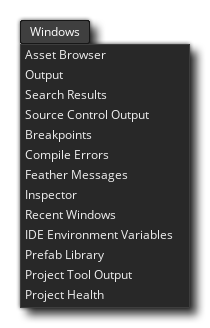
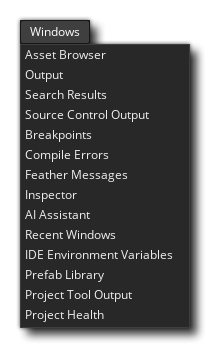
docs(feature): Initial documentation for the AI plugin

Changed region(s): [[0.0857, 0.0305, 0.9429, 0.9451]]

diff --git a/Manual/contents/IDE_Tools/AI_Assistant.htm b/Manual/contents/IDE_Tools/AI_Assistant.htm
@@ -1,0 +1,61 @@
+<?xml version="1.0" encoding="utf-8" ?>
+<!DOCTYPE html>
+<html xmlns="http://www.w3.org/1999/xhtml">
+<head>
+  <meta http-equiv="Content-Type" content="text/html; charset=utf-8" />
+  <title>AI Assistant</title>
+  <meta name="generator" content="Adobe RoboHelp 2022" />
+  <link rel="stylesheet" href="../assets/css/default.css" type="text/css" />
+  <script src="../assets/scripts/main_script.js" type="module"></script>
+  <meta name="rh-authors" content="Gurpreet S. Matharoo" />
+  <meta name="topic-comment" content="Page detailing the AI Assitant" />
+  <meta name="rh-index-keywords" content="AI Assitant" />
+  <meta name="search-keywords" content="AI Assitant" />
+</head>
+<body>
+  <!--<div class="body-scroll" style="top: 150px;">-->
+  <h1><span data-field="title" data-format="default">AI Assistant</span></h1>
+  <p>The <span data-keyref="AI_Assistant">AI Assistant</span> is a chatbot where you can converse with the AI, ask questions and request images.</p>
+  <p>When you open a project, you will see this window:</p>
+  <p><img class="center" src="../assets/Images/IDE Tools/AIAssis/AI_welcome.png" />Click &quot;<strong>Start New Chat</strong>&quot; to open the <span data-keyref="AI_Assistant">AI Assistant</span> and start a new chat. The &quot;<strong>Don&#39;t show again</strong>&quot; option is enabled by default which makes sure this window doesn&#39;t appear again (this modifies a <a href="../Setting_Up_And_Version_Information/IDE_Preferences/AI_Assistant_Preferences.htm">preference</a> which you can later enable to prompt this window to open the next time you open a project).</p>
+  <p>The <span data-keyref="AI_Assistant">AI Assistant</span> can also be opened from <a data-xref="{title}" href="../IDE_Navigation/Menus/The_Windows_Menu.htm">The Windows Menu</a> or the <img class="icon" src="../assets/Images/Icons/Icon_AI.png" /> button in the Quick Buttons menu of the IDE. The <span data-keyref="AI_Assistant">AI Assistant</span> window can be docked to any part of the IDE or used as a floating window.</p>
+  <h2>Home Screen</h2>
+  <p><img class="center" src="../assets/Images/IDE Tools/AIAssis/AI_start.png" />The home screen of the <span data-keyref="AI_Assistant">AI Assistant</span> window displays quick options to start chats about various GameMaker concepts.</p>
+  <p>The following buttons are given at the top:</p>
+  <ul class="colour">
+    <li><strong>Start New Chat</strong> <img class="icon" src="../assets/Images/Icons/Icon_AddArgument.png" />: Start a new chat</li>
+    <li><strong>Menu </strong><img class="icon" src="../assets/Images/Icons/Icon_AssetMenu.png" />: In the home screen, this contains two options: 
+      <ul>
+        <li><strong>Open chat history</strong>: This opens the chat history menu described below</li>
+        <li><strong>Start New Chat</strong>: Start a new chat</li>
+      </ul>
+    </li>
+  </ul>
+  <h2>Chat History</h2>
+  <p><img class="center" src="../assets/Images/IDE Tools/AIAssis/AI_home.png" />This menu displays a list of all the chats that were previously created. You can search through the chat titles and select multiple chats to <img class="icon" src="../assets/Images/Icons/Icon_DeleteChannel.png" /> delete them.</p>
+  <p>The chat list can be sorted by the <strong>Last Modified</strong> column in an ascending or descending order. The <img class="icon" src="../assets/Images/Icons/Icon_dots.png" /> button next to a chat lets you rename or delete the chat. The <img src="../assets/Images/Icons/Icon_next.png" /> button is used to open the chat.</p>
+  <h2>Chat</h2>
+  <p><img class="center" src="../assets/Images/IDE Tools/AIAssis/AI_chat.png" />The chat menu is where you can converse with the <span data-keyref="AI_Assistant">AI Assistant</span>.</p>
+  <p>The <img class="icon" src="../assets/Images/Icons/Icon_ExtensionMenu.png" /> menu at the top contains options to start a new chat, rename or delete the current chat, and open the home or chat history screens.</p>
+  <p>You can search through the chat. At the bottom of the window you can write a message to send to the <span data-keyref="AI_Assistant">AI Assistant</span>.</p>
+  <p class="note"><span data-conref="../assets/snippets/Tag_important.hts"> </span> When you send a message for the first time, you will be required to log in and the Opera log-in page will automatically open in your default browser.</p>
+  <p> </p>
+  <p> </p>
+  <p> </p>
+  <div class="footer">
+    <div class="buttons">
+      <div class="clear">
+        <div style="float:left">Back: <a href="../The_IDE/The_IDE.htm">The IDE</a></div>
+        <div style="float:right">Next: <a data-xref="{title}" href="../Setting_Up_And_Version_Information/IDE_Preferences.htm">IDE Preferences</a></div>
+      </div>
+    </div>
+    <h5><span data-keyref="Copyright Notice">© Copyright YoYo Games Ltd. 2025 All Rights Reserved</span></h5>
+  </div>
+  <!-- KEYWORDS
+AI Assistant
+-->
+  <!-- TAGS
+ai_assistant
+-->
+</body>
+</html>

diff --git a/Manual/contents/IDE_Navigation/Menus/The_Windows_Menu.htm b/Manual/contents/IDE_Navigation/Menus/The_Windows_Menu.htm
@@ -17,7 +17,8 @@
   <h1><span data-field="title" data-format="default">The Windows Menu</span></h1>
   <p><img alt="The Windows Menu" class="center" height="288" src="../../assets/Images/IDE_Input/Window_Menu.png" width="210" /></p>
   <p>This menu is for opening the general docked IDE windows. Since docks can be rearranged and the contents can be removed as stand-alone windows or even closed entirely, this window permits you to re-open them if you find that you need them for anything. The windows that can be opened from here are <a data-xref="{title}" href="../../Introduction/The_Asset_Browser.htm">The Asset Browser</a> window and all the different <a href="../../Introduction/The_Output_Window.htm">Output</a> windows (Output, Search, Source Control, Breakpoints and Compile/Syntax Errors). Note that Feather Messages is shown instead of Syntax Errors if you&#39;ve <a href="../../Setting_Up_And_Version_Information/IDE_Preferences/Feather_Settings.htm#enable_feather">enabled Feather</a>.</p>
-  <p>Next you can open <a data-xref="{title}" href="../../IDE_Tools/The_Inspector.htm">The Inspector</a> window. This window is used to inspect the properties of the currently selected IDE element, and these properties can then be edited as required. You can also open the AI Assistant.</p>
+  <p>Next you can open <a data-xref="{title}" href="../../IDE_Tools/The_Inspector.htm">The Inspector</a> window. This window is used to inspect the properties of the currently selected IDE element, and these properties can then be edited as required.</p>
+  <p>You can also open the <a data-xref="{title}" href="../../IDE_Tools/AI_Assistant.htm">AI Assistant</a> from this menu.</p>
   <p>Next you have the <a data-xref="{title}" href="../Recent_Windows.htm">Recent Windows</a> list, and there is also the option to open the <strong>Environment Variables</strong> window where you can see the different paths that the various environment variables used in the <a href="../../Setting_Up_And_Version_Information/IDE_Preferences.htm">Preferences</a> point to. These variables cannot be edited (neither their name nor their path/setting) but you can select and copy/paste any of them for use elsewhere.</p>
   <p><img alt="Environment Variables" class="center" src="../../assets/Images/IDE_Input/Environment_Variables.png" />You can also open the <a data-xref="{title}" href="../../IDE_Tools/Prefab_Library.htm">Prefab Library</a> from here.</p>
   <p>You also have an option to open the <strong>Project Tool Output</strong> window. This windows shows the output of the <a data-xref="{title}" href="../../IDE_Tools/Project_Tool.htm">Project Tool</a>.</p>

diff --git a/Manual/contents/Setting_Up_And_Version_Information/IDE_Preferences/AI_Assistant_Preferences.htm b/Manual/contents/Setting_Up_And_Version_Information/IDE_Preferences/AI_Assistant_Preferences.htm
@@ -1,0 +1,42 @@
+<?xml version="1.0" encoding="utf-8" ?>
+<!DOCTYPE html>
+<html xmlns="http://www.w3.org/1999/xhtml">
+<head>
+  <meta http-equiv="Content-Type" content="text/html; charset=utf-8" />
+  <meta name="generator" content="Adobe RoboHelp 2022" />
+  <title>AI Assistant Preferences</title>
+  <meta name="topic-status" content="Draft" />
+  <link rel="stylesheet" type="text/css" href="../../assets/css/default.css" />
+  <meta name="rh-authors" content="" />
+  <meta name="topic-comment" content="Page documenting the AI Assistant preferences" />
+  <meta name="template" content="../../assets/masterpages/Manual_Page.htt" />
+  <meta name="rh-index-keywords" content="Prefs - AI Assistant" />
+  <meta name="search-keywords" content="AI Assistant Preferences" />
+</head>
+<body>
+  <h1><span data-field="title" data-format="default">AI Assistant Preferences</span></h1>
+  <p><img class="center" src="../../assets/Images/Setup_And_Version/Preferences/AI_Assistant_Main.png" />This section contains preferences for the <a data-xref="{title}" href="../../IDE_Tools/AI_Assistant.htm">AI Assistant</a>:</p>
+  <ul class="colour">
+    <li><strong>Show the Welcome screen</strong>: Show the welcome screen for the <span data-keyref="AI_Assistant">AI Assistant</span> the next time a project is loaded.</li>
+    <li><strong>Default window location</strong>: The location in the IDE where the <span data-keyref="AI_Assistant">AI Assistant</span> appears.</li>
+  </ul>
+  <p> </p>
+  <hr />
+  <p><img class="center" src="../../assets/Images/Setup_And_Version/Preferences/AI_Assistant_Conf.png" /></p>
+  <p>The <strong>Confirm Dialogs</strong> menu shows the following options:</p>
+  <ul class="colour">
+    <li><strong>Automatic response to delete conversation</strong>: This option controls what happens when you choose to delete a conversation. You can choose to get a confirmation prompt or delete without confirmation.</li>
+  </ul>
+  <p> </p>
+  <p> </p>
+  <div class="footer">
+    <div class="buttons">
+      <div class="clear">
+        <div>Back: <a data-xref="{title}" href="../IDE_Preferences.htm">IDE Preferences</a></div>
+        <div>Next: <a href="Font_Editor_Preferences.htm">Font Editor Preferences</a></div>
+      </div>
+    </div>
+    <h5><span data-conref="../../assets/snippets/Copyright_Notice_AutoUpdate.hts"> </span></h5>
+  </div>
+</body>
+</html>

diff --git a/Manual/contents/Setting_Up_And_Version_Information/IDE_Preferences.htm b/Manual/contents/Setting_Up_And_Version_Information/IDE_Preferences.htm
@@ -46,7 +46,7 @@
     <li><a href="IDE_Preferences/Text_Editor_Preferences.htm">Text Editors</a></li>
     <li><a data-xref="{title}" href="IDE_Preferences/Language_Preferences.htm">Language Preferences</a></li>
     <li><a href="IDE_Preferences/Feather_Settings.htm">Feather Settings</a></li>
-    <li><a data-xref="{title}" href="IDE_Preferences/Marketplace_Preferences.htm">Marketplace Preferences</a></li>
+    <li><a data-xref="{title}" href="IDE_Preferences/Marketplace_Preferences.htm">Certificate Preferences</a></li>
     <li><a href="IDE_Preferences/Plugin_Preferences.htm">Plugins</a></li>
     <li><a href="IDE_Preferences/Runtime_Feed_Preferences.htm">Runtime Feeds</a></li>
     <li><a href="IDE_Preferences/Redefine_Keys_Preferences.htm">Redefine Keys</a></li>
@@ -56,6 +56,7 @@
     <li><a href="IDE_Preferences/Particle_Editor_Preferences.htm">Particle Editor</a></li>
     <li><a href="IDE_Preferences/Sequences_Preferences.htm">Sequences Editor</a></li>
     <li><a data-xref="{title}" href="IDE_Preferences/Package_Manager_Preferences.htm">Package Manager Preferences</a></li>
+    <li><a data-xref="{title}" href="IDE_Preferences/AI_Assistant_Preferences.htm">AI Assistant Preferences</a></li>
   </ul>
   <p><span data-condition="Export:Beta">Beta versions of <span data-keyref="GameMaker Name">GameMaker</span> starting with 2024.800+ will also contain <a data-xref="{title}" href="IDE_Preferences/GMRT_Preferences.htm">GMRT Preferences</a></span><span data-condition="Export:Beta">.</span></p>
   <p> </p>

diff --git a/Manual/contents/The_IDE/Preferences_And_Information/Preferences_And_Features.htm b/Manual/contents/The_IDE/Preferences_And_Information/Preferences_And_Features.htm
@@ -21,8 +21,9 @@
     <li><a data-xref="{title}" href="../../Setting_Up_And_Version_Information/IDE_Preferences.htm">IDE Preferences</a></li>
     <li><a data-xref="{title}" href="../../Setting_Up_And_Version_Information/Platform_Preferences.htm">Platform Preferences</a></li>
     <li><a data-xref="{title}" href="../../Setting_Up_And_Version_Information/Error_Reporting.htm">Reporting Errors</a></li>
-    <li><a data-xref="{title}" href="../../IDE_Tools/Compiling_&amp;_Runtime.htm">Compiling &amp; Runtime</a></li>
+    <li><a data-xref="{title}" href="../../IDE_Tools/Compiling_&amp;_Runtime.htm">Compiling &amp; Running</a></li>
     <li><a data-xref="{title}" href="../../IDE_Tools/Additional_IDE_Tools.htm">Project &amp; Assets</a></li>
+    <li><a data-xref="{title}" href="../../IDE_Tools/AI_Assistant.htm">AI Assistant</a></li>
   </ul>
   <p> </p>
   <p> </p>
@@ -35,7 +36,7 @@
         <div>Next: <a data-xref="{title}" href="../../IDE_Navigation/IDE_Input.htm">IDE Input And Navigation</a></div>
       </div>
     </div>
-    <h5><span data-keyref="Copyright Notice">© Copyright YoYo Games Ltd. 2024 All Rights Reserved</span></h5>
+    <h5><span data-keyref="Copyright Notice">© Copyright YoYo Games Ltd. 2025 All Rights Reserved</span></h5>
   </div>
   <!-- KEYWORDS
 Contents

diff --git a/Manual/contents/Setting_Up_And_Version_Information/IDE_Preferences/Package_Manager_Preferences.htm b/Manual/contents/Setting_Up_And_Version_Information/IDE_Preferences/Package_Manager_Preferences.htm
@@ -34,10 +34,10 @@
     <div class="buttons">
       <div class="clear">
         <div style="float:left">Back: <a href="../IDE_Preferences.htm">IDE Preferences</a></div>
-        <div style="float:right">Next: <a data-xref="{title}" href="General_Preferences.htm">General Preferences</a></div>
+        <div style="float:right">Next: <a data-xref="{title}" href="AI_Assistant_Preferences.htm">AI Assistant Preferences</a></div>
       </div>
     </div>
-    <h5><span data-keyref="Copyright Notice">© Copyright YoYo Games Ltd. 2024 All Rights Reserved</span></h5>
+    <h5><span data-keyref="Copyright Notice">© Copyright YoYo Games Ltd. 2025 All Rights Reserved</span></h5>
   </div>
   <!-- KEYWORDS
 Preferences - Package Manager

diff --git a/Manual/contents/IDE_Tools/Additional_IDE_Tools.htm b/Manual/contents/IDE_Tools/Additional_IDE_Tools.htm
@@ -31,7 +31,7 @@
     <div class="buttons">
       <div class="clear">
         <div style="float:left">Back: <a href="../The_IDE/The_IDE.htm">The IDE</a></div>
-        <div style="float:right">Next: <a data-xref="{title}" href="../Setting_Up_And_Version_Information/IDE_Preferences.htm">IDE Preferences</a></div>
+        <div style="float:right">Next: <a data-xref="{title}" href="AI_Assistant.htm">AI Assistant</a></div>
       </div>
     </div>
     <h5><span data-keyref="Copyright Notice">© Copyright YoYo Games Ltd. 2025 All Rights Reserved</span></h5>

diff --git a/Manual/contents/Introduction/Workspaces.htm b/Manual/contents/Introduction/Workspaces.htm
@@ -122,6 +122,10 @@
         <td class="icons"><img alt="Open Close Docks Icon" src="../assets/Images/Icons/Icon_Docking.png" /></td>
         <td class="text">This will toggle all the docked elements between hidden and unhidden.</td>
       </tr>
+      <tr>
+        <td class="icons"><img src="../assets/Images/Icons/Icon_AI.png" /></td>
+        <td class="text">This opens the <a data-xref="{title}" href="../IDE_Tools/AI_Assistant.htm">AI Assistant</a>.</td>
+      </tr>
     </tbody>
   </table>
   <p> </p>
